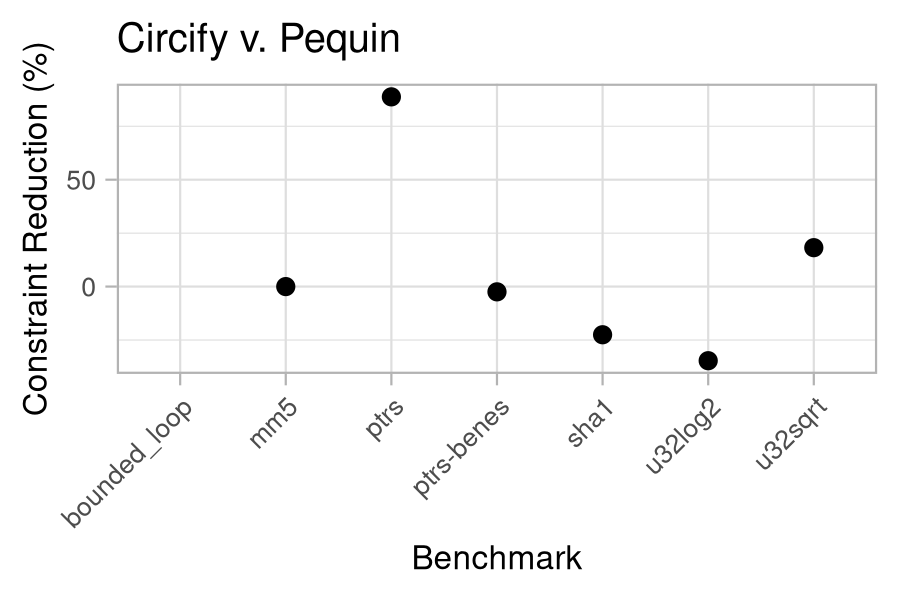
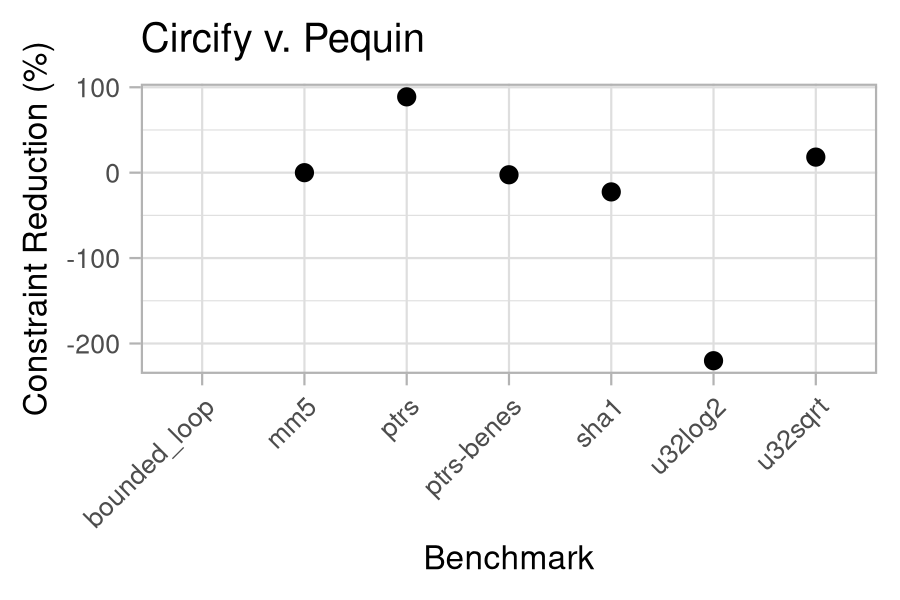
right # of iters on the pequin log2 bench
We were doing the wrong number because of an unrecognized loop

diff --git a/test/Code/C/pequin/log.c b/test/Code/C/pequin/log.c
@@ -18,10 +18,10 @@ uint32_t uintlog2(uint32_t a){
   }
   uint32_t log = 0;
   int found = 0;
-  for(i = 31; i>=1; i--){
+  for(i = 1; i<=31; i++){
     if (!found){
-      if (bits[i]){
-        log = i;
+      if (bits[31 - i]){
+        log = 31 - i;
         found = 1;
       }
     }
